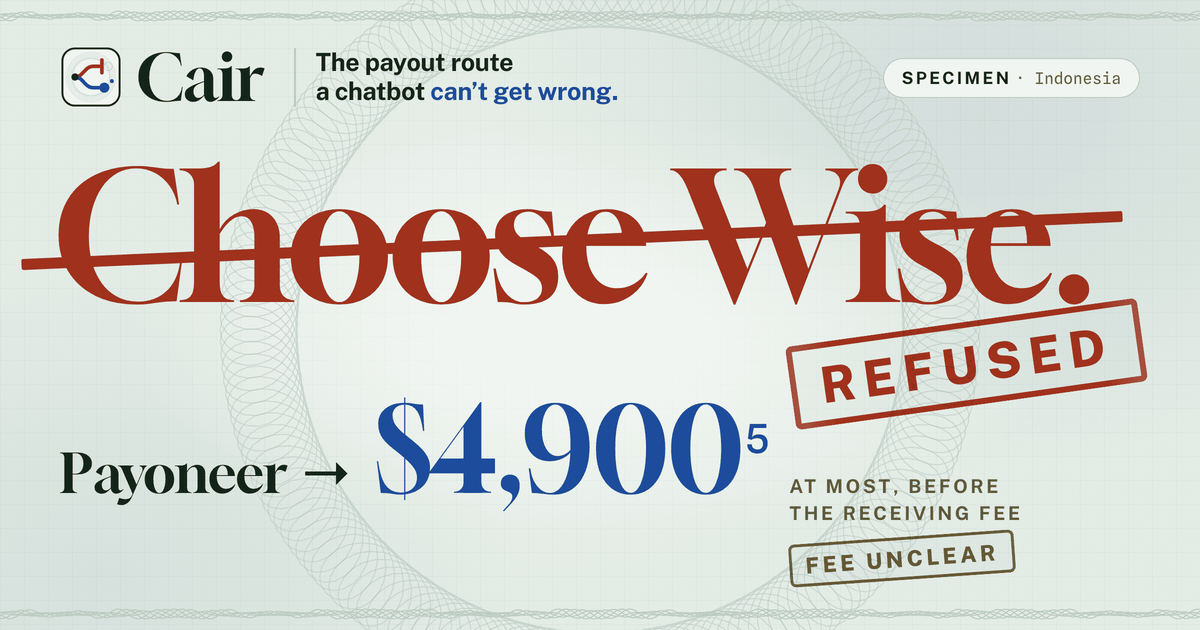
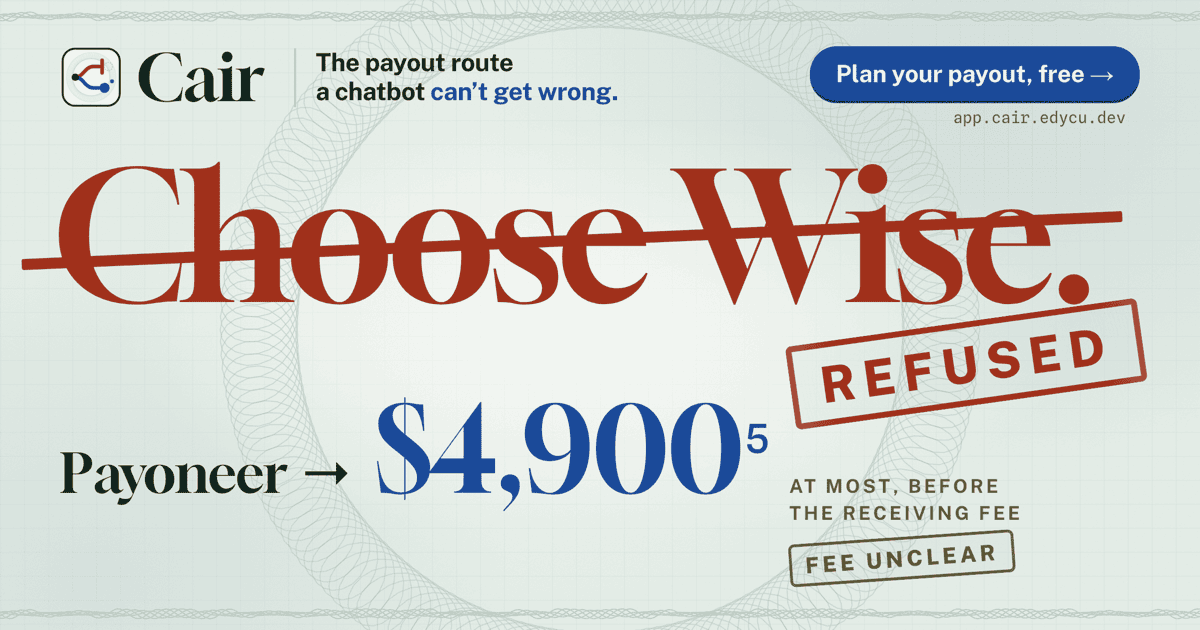
docs: add a call-to-action to the link-preview image

diff --git a/docs/pitch/index.html b/docs/pitch/index.html
@@ -14,14 +14,14 @@
 <meta property="og:url" content="https://cair.edycu.dev/pitch/">
 <meta property="og:title" content="Cair — pitch deck">
 <meta property="og:description" content="An agent that refuses payout routes that can't deliver and footnotes every amount, rate and treaty article.">
-<meta property="og:image" content="https://cair.edycu.dev/assets/og-1200.png?v=1">
+<meta property="og:image" content="https://cair.edycu.dev/assets/og-1200.png?v=2">
 <meta property="og:image:width" content="1200">
 <meta property="og:image:height" content="630">
 <meta property="og:image:alt" content="Cair — Choose Wise struck through and stamped REFUSED; Payoneer, at most $4,900, fee UNCLEAR">
 <meta name="twitter:card" content="summary_large_image">
 <meta name="twitter:title" content="Cair — pitch deck">
 <meta name="twitter:description" content="An agent that refuses payout routes that can't deliver and footnotes every amount, rate and treaty article.">
-<meta name="twitter:image" content="https://cair.edycu.dev/assets/og-1200.png?v=1">
+<meta name="twitter:image" content="https://cair.edycu.dev/assets/og-1200.png?v=2">
 <meta name="twitter:image:alt" content="Cair — Choose Wise struck through and stamped REFUSED; Payoneer, at most $4,900, fee UNCLEAR">
 <link rel="icon" href="../assets/icon.svg" type="image/svg+xml">
 <link rel="preload" href="../assets/fonts/gloock-400.woff2" as="font" type="font/woff2" crossorigin>

diff --git a/docs/index.html b/docs/index.html
@@ -15,14 +15,14 @@
 <meta property="og:title" content="Cair — the payout route a chatbot can't get wrong">
 <meta property="og:description" content="An agent that refuses payout routes that can't deliver and footnotes every amount, rate and treaty article.">
 <!-- bump ?v= whenever og-1200.png changes: social platforms cache cards by URL -->
-<meta property="og:image" content="https://cair.edycu.dev/assets/og-1200.png?v=1">
+<meta property="og:image" content="https://cair.edycu.dev/assets/og-1200.png?v=2">
 <meta property="og:image:width" content="1200">
 <meta property="og:image:height" content="630">
 <meta property="og:image:alt" content="Cair — Choose Wise struck through and stamped REFUSED; Payoneer, at most $4,900, fee UNCLEAR">
 <meta name="twitter:card" content="summary_large_image">
 <meta name="twitter:title" content="Cair — the payout route a chatbot can't get wrong">
 <meta name="twitter:description" content="An agent that refuses payout routes that can't deliver and footnotes every amount, rate and treaty article.">
-<meta name="twitter:image" content="https://cair.edycu.dev/assets/og-1200.png?v=1">
+<meta name="twitter:image" content="https://cair.edycu.dev/assets/og-1200.png?v=2">
 <link rel="icon" href="assets/icon.svg" type="image/svg+xml">
 <link rel="apple-touch-icon" href="assets/icon-512.png">
 <link rel="preload" href="assets/fonts/gloock-400.woff2" as="font" type="font/woff2" crossorigin>
